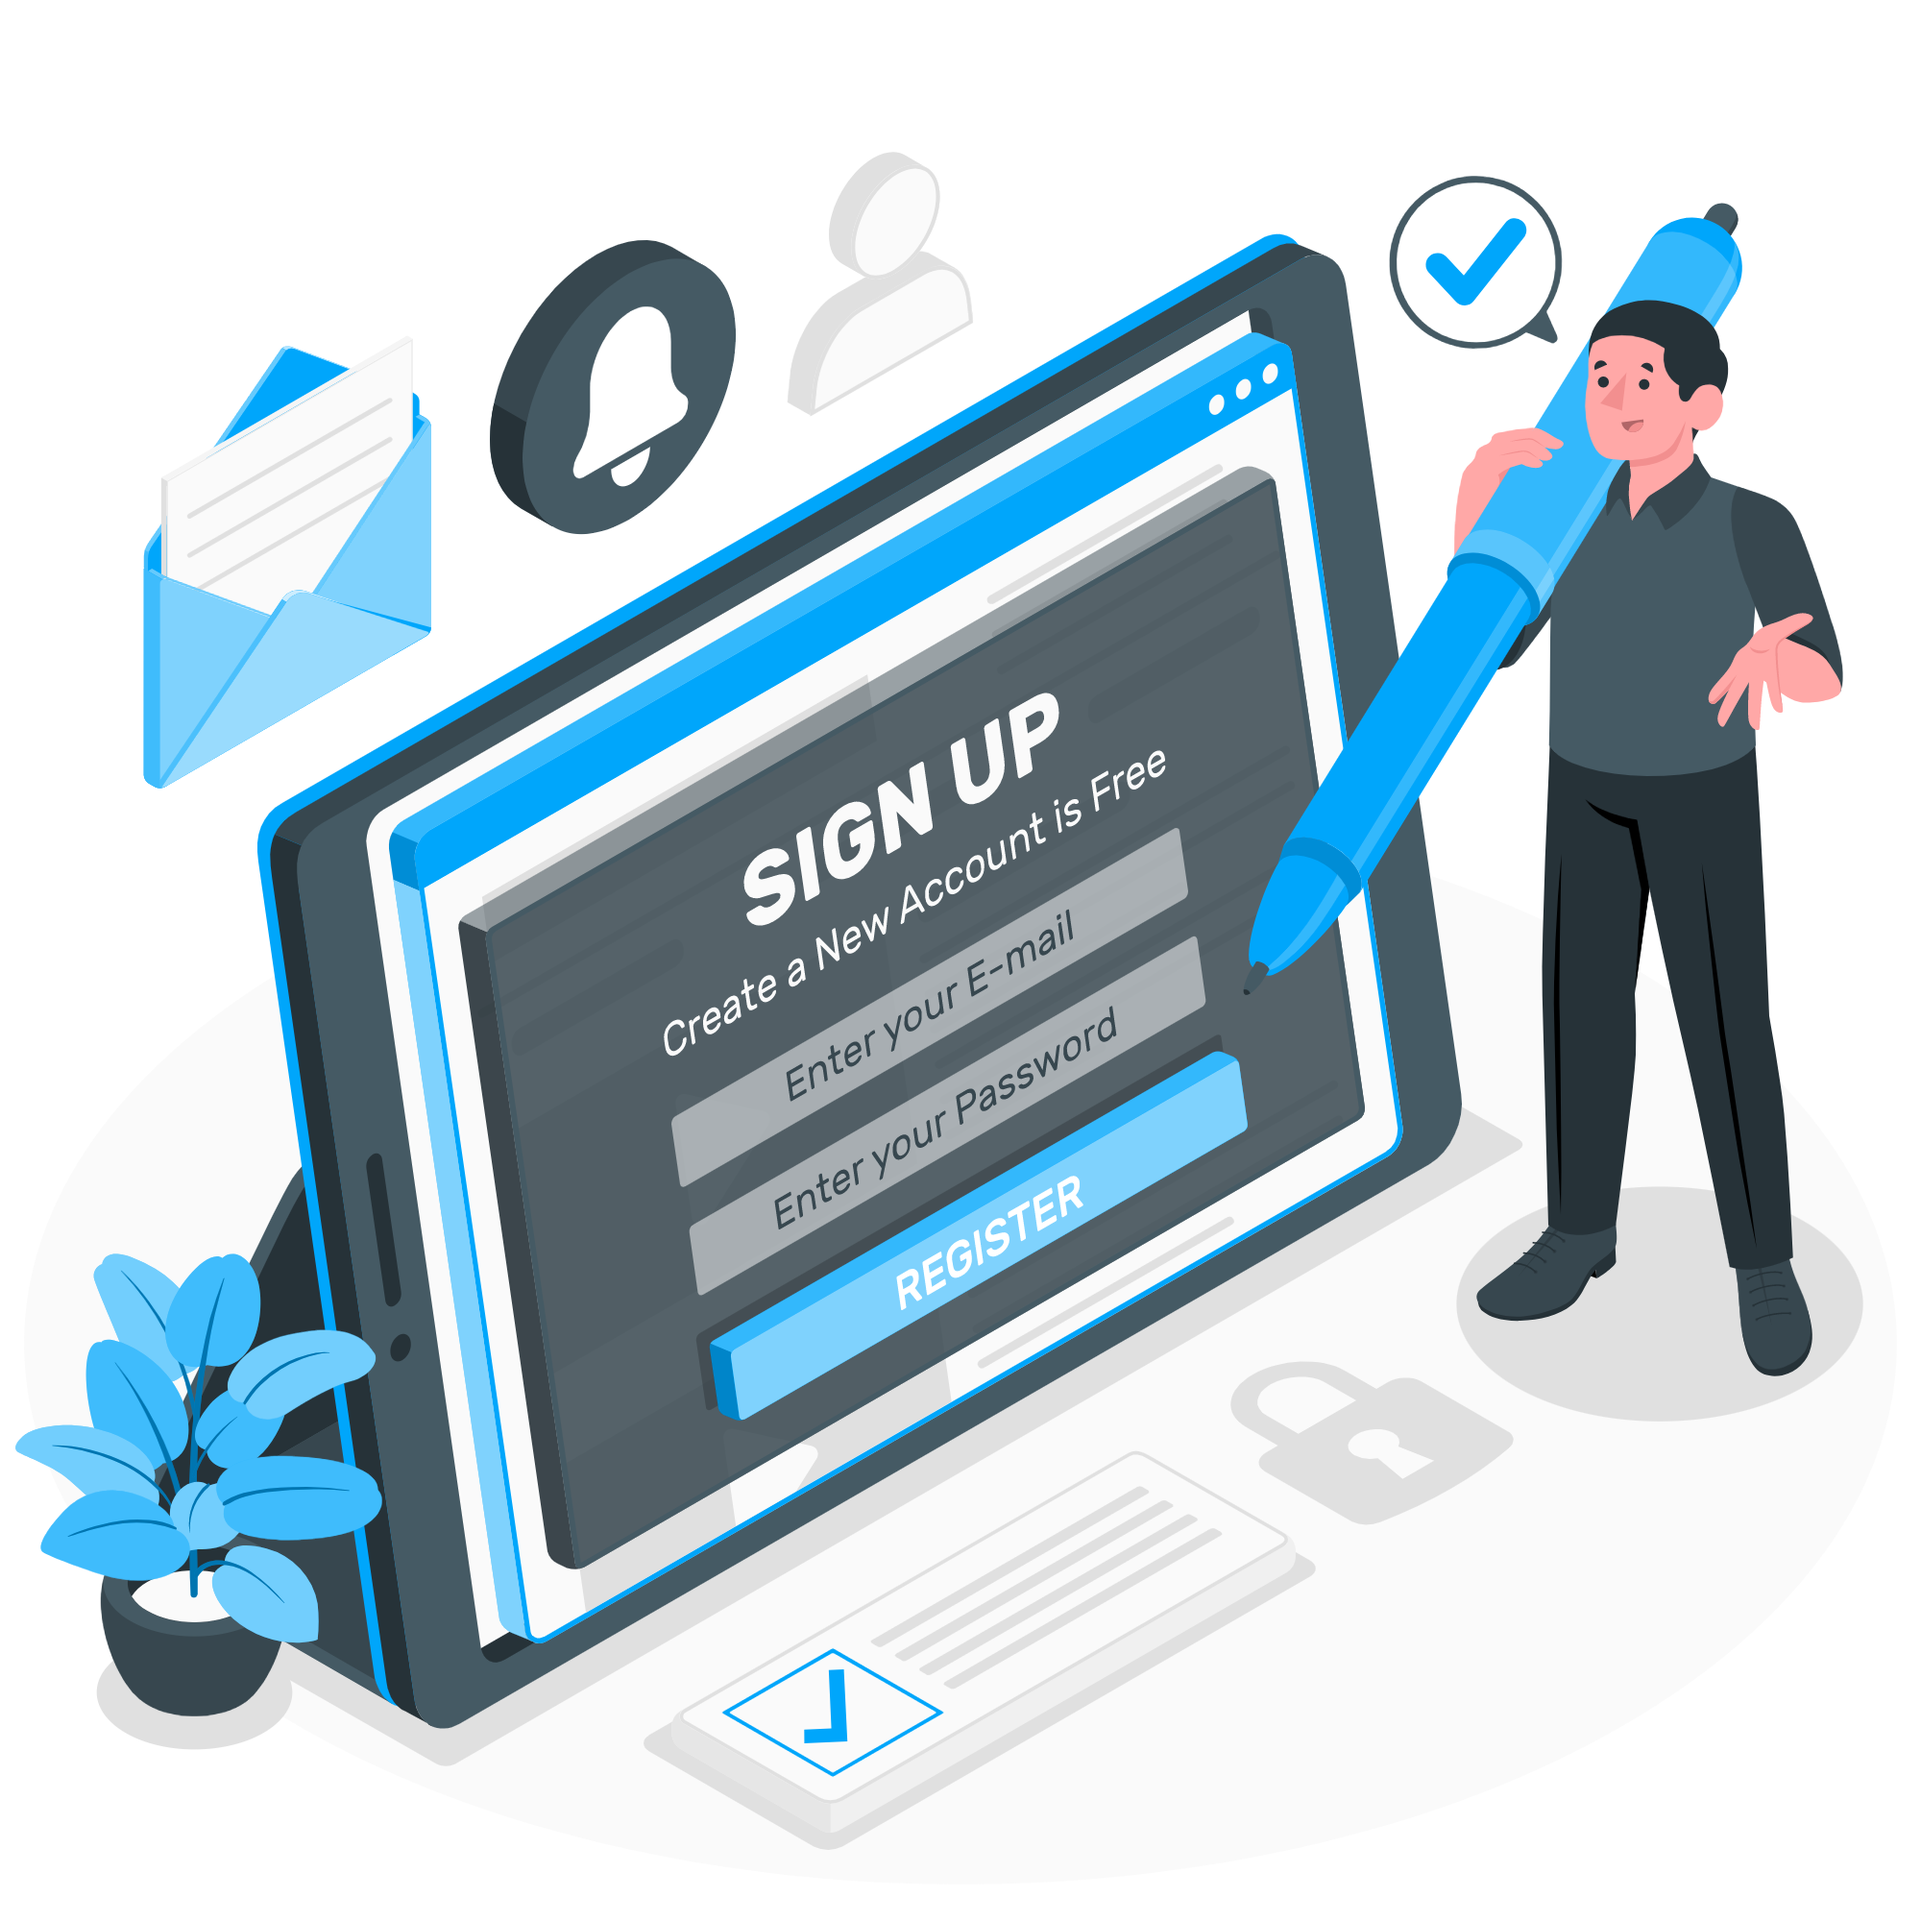
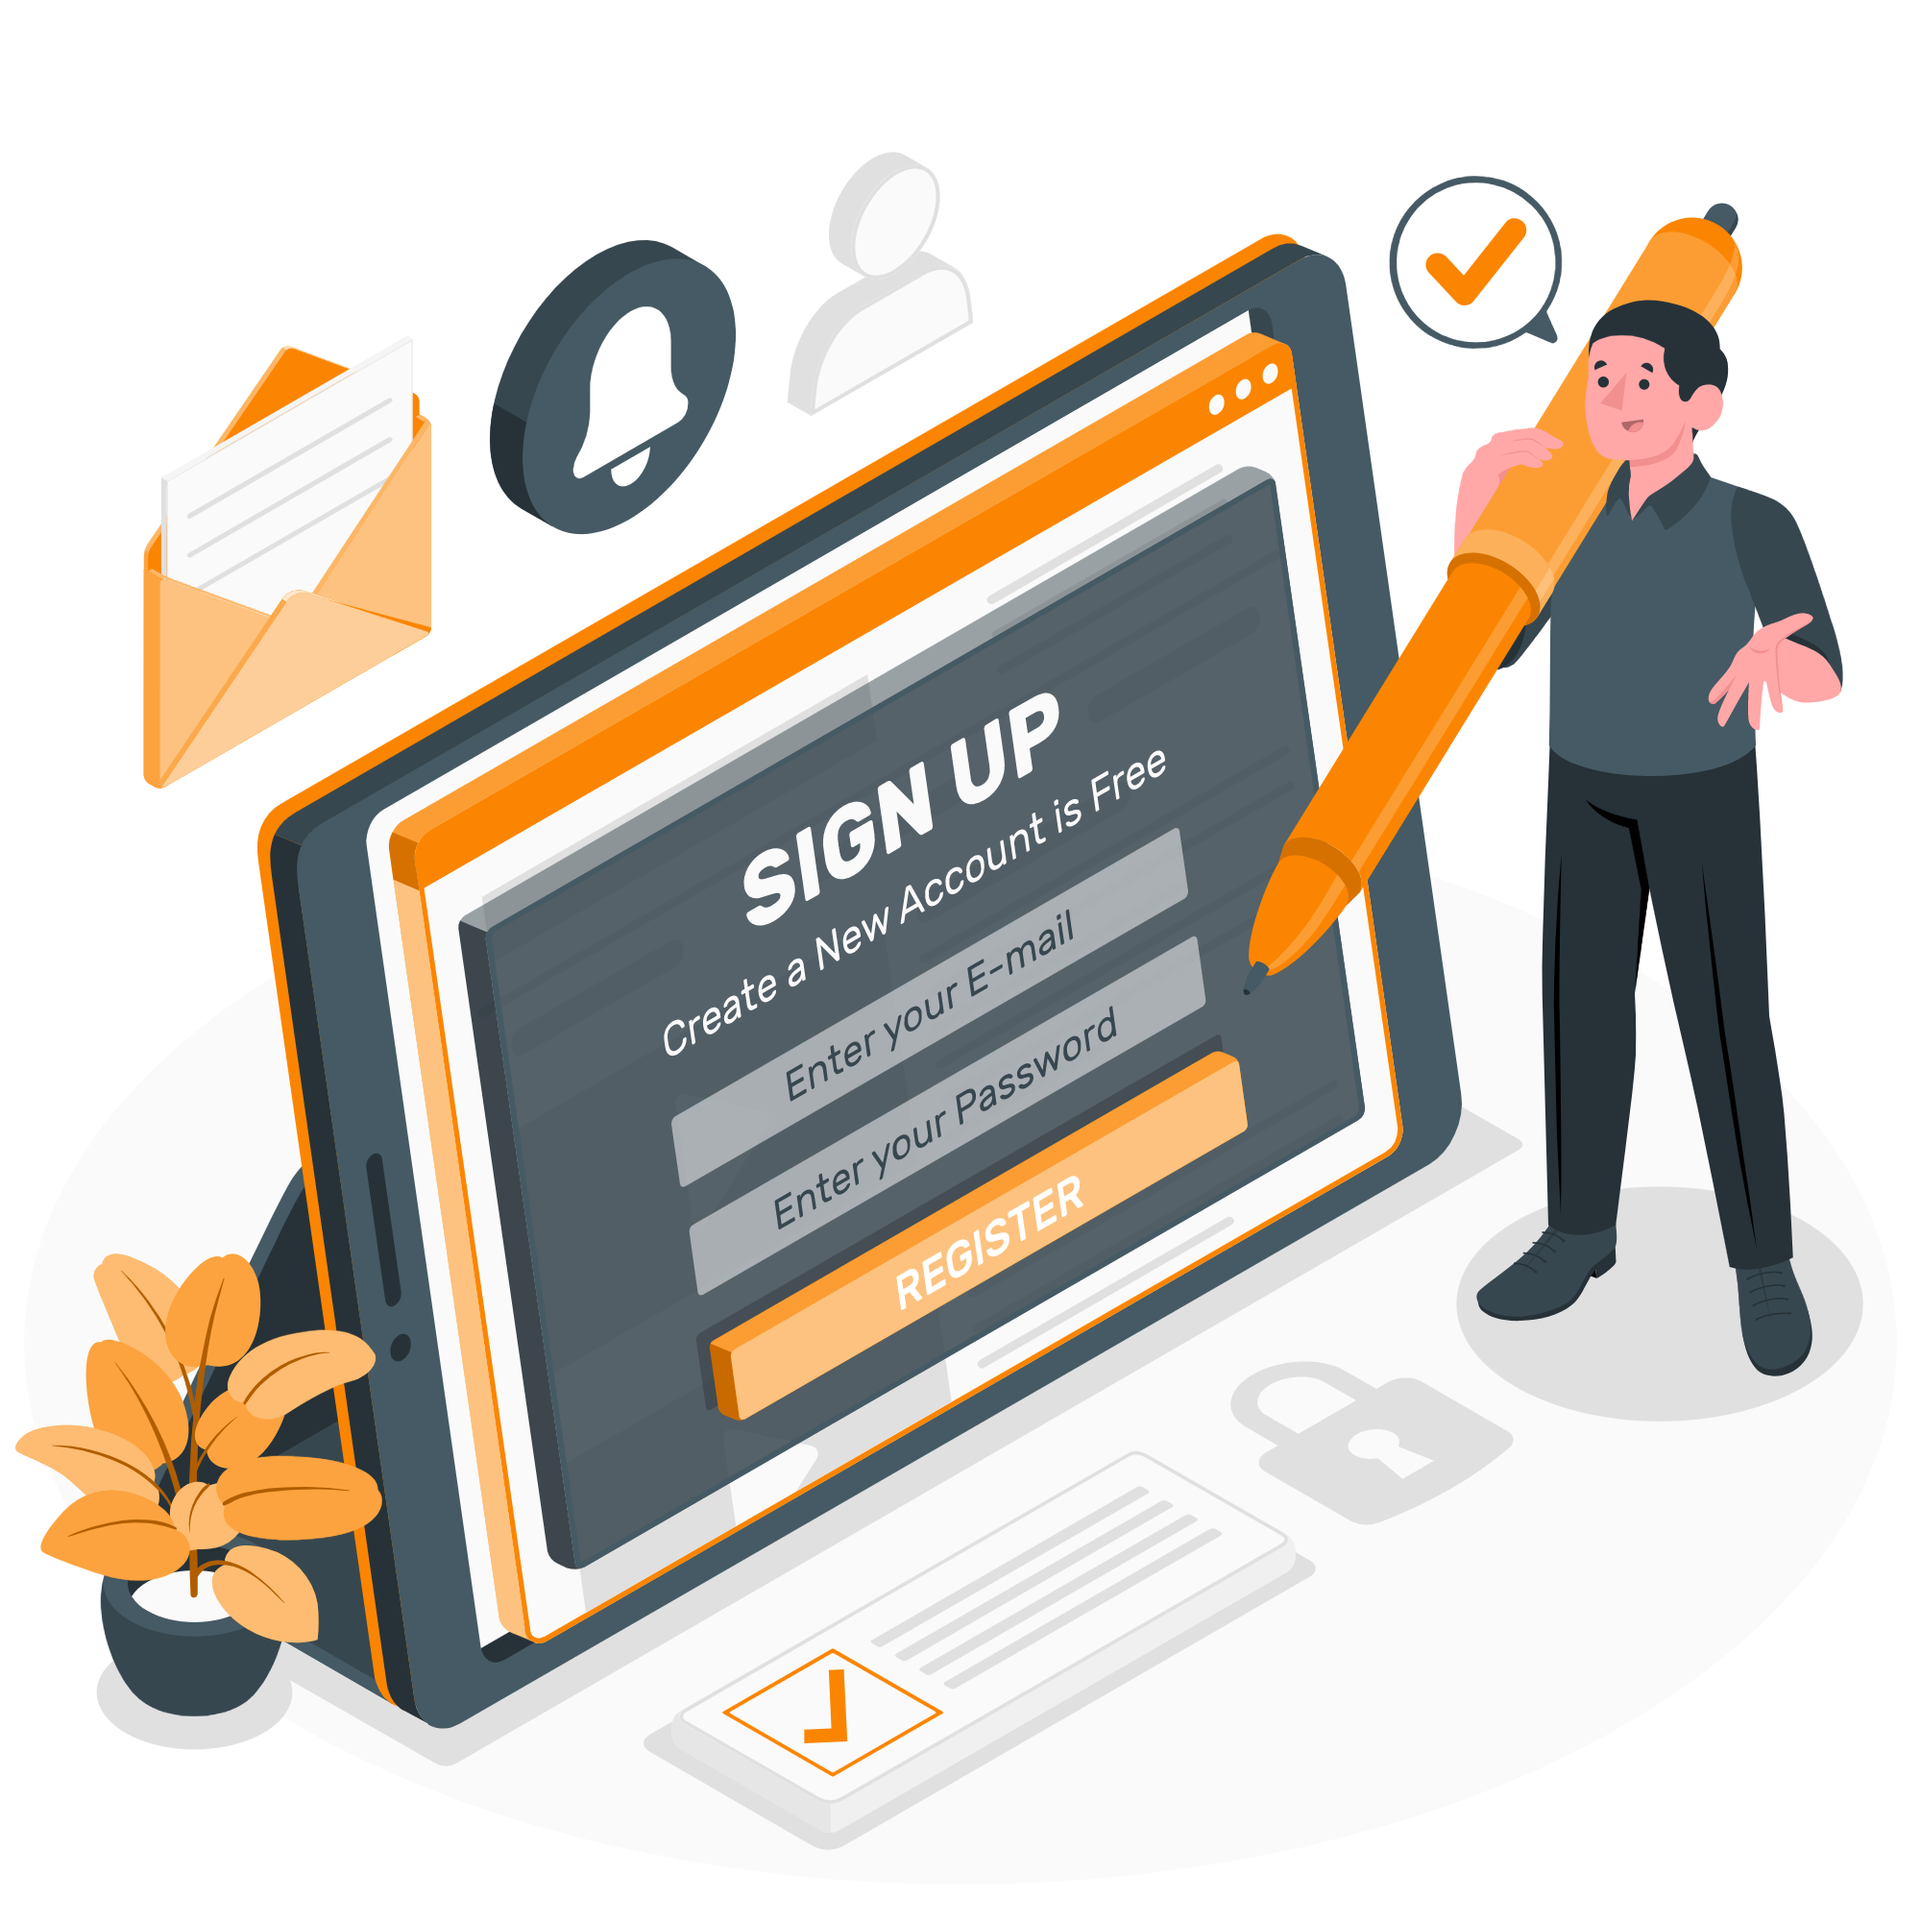
signup page frontend

diff --git a/client/src/views/Signup/Signup.js b/client/src/views/Signup/Signup.js
@@ -1,72 +1,106 @@
-import React from 'react';
+import React, { useState } from 'react';
+import axios from 'axios';
 import './Signup.css';
 import SignupImg from './../../assests/signup.png';
 
 const Signup = () => {
+  const [name, setName] = useState('');
+  const [email, setEmail] = useState('');
+  const [phone, setPhone] = useState('');
+  const [password, setPassword] = useState('');
+  const [role, setRole] = useState('user');
+
+  async function signupUser() {
+    const response = await axios.post('/signup', {
+      name: name,
+      email: email,
+      phone: phone,
+      password: password,
+      role: role,
+    });
+
+    console.log(response.data);
+
+    if (response.data.success) {
+      alert(response.data.message);
+      window.location.href = '/login';
+    } else {
+      alert(response.data.message);
+      setName('');
+      setEmail('');
+      setPhone('');
+      setPassword('');
+    }
+  }
+
   return (
     <div>
       <h1 className="text-center">Sign up</h1>
-      <div class="container text-center">
-        <div class="row">
-          <div class="col-md-6 mt-md-5">
+      <div className="container text-center">
+        <div className="row">
+          <div className="col-md-6 mt-md-5">
             <img src={SignupImg} className="signup-img" alt="signup"></img>
           </div>
 
-          <div class="col-md-6 mt-md-5">
+          <div className="col-md-6 mt-md-5">
             <form className="form-elements form-container">
               <div className="element-holder">
-                <label class="contact__form-label" for="name">
+                <label className="contact__form-label" htmlFor="name">
                   Name
                 </label>
                 <input
                   required
                   placeholder="Enter Your Name"
                   type="text"
-                  class="contact__form-input"
-                  name="Name"
+                  className="contact__form-input"
                   id="name"
+                  value={name}
+                  onChange={(e) => setName(e.target.value)}
                 />
               </div>
               <div className="element-holder">
-                <label class="contact__form-label" for="email">
+                <label className="contact__form-label" htmlFor="email">
                   Email
                 </label>
                 <input
                   required
                   placeholder="Enter Your Email"
                   type="email"
-                  class="contact__form-input"
-                  name="Email"
+                  className="contact__form-input"
                   id="email"
+                  value={email}
+                  onChange={(e) => setEmail(e.target.value)}
                 />
               </div>
               <div className="element-holder">
-                <label class="contact__form-label" for="phone">
+                <label className="contact__form-label" htmlFor="phone">
                   Phone
                 </label>
                 <input
                   required
                   placeholder="Enter Your Phone"
                   type="text"
-                  class="contact__form-input"
-                  name="Phone"
+                  className="contact__form-input"
                   id="phone"
+                  value={phone}
+                  onChange={(e) => setPhone(e.target.value)}
                 />
               </div>
               <div className="element-holder">
-                <label class="contact__form-label" for="password">
+                <label className="contact__form-label" htmlFor="password">
                   Password
                 </label>
                 <input
                   required
                   placeholder="Enter Your Password"
                   type="password"
-                  class="contact__form-input"
-                  name="Password"
+                  className="contact__form-input"
                   id="passwrod"
+                  value={password}
+                  onChange={(e) => setPassword(e.target.value)}
                 />
               </div>
-              <button type="submit" class="css-button-rounded--sky">
+              <button type="button" className="css-button-rounded--sky" onClick={signupUser}>
                 Sign Up
               </button>
             </form>

diff --git a/client/src/views/Signup/Signup.css b/client/src/views/Signup/Signup.css
@@ -51,8 +51,8 @@
   display: inline-block;
   outline: none;
   border-radius: 5px;
-  border: 2px solid #00a6fb;
-  background: #00a6fb;
+  border: 2px solid #fb8500;
+  background: #fb8500;
   display: block;
   margin-left: auto;
   margin-right: auto;
@@ -60,5 +60,5 @@
 }
 .css-button-rounded--sky:hover {
   background: #fff;
-  color: #00a6fb;
+  color: #fb8500;
 }
